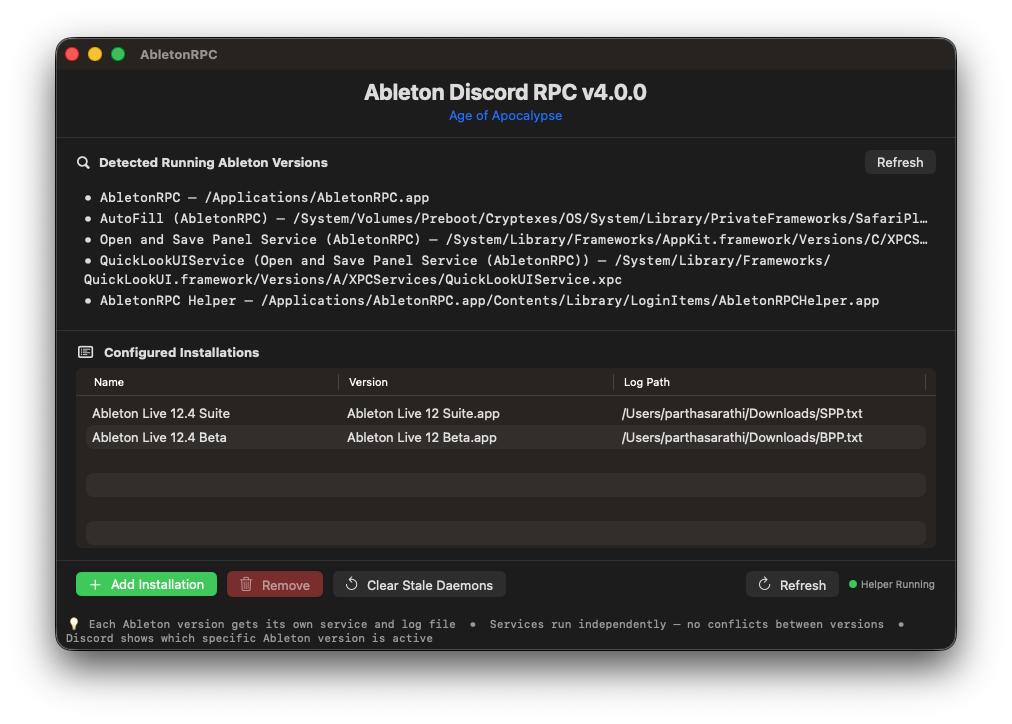
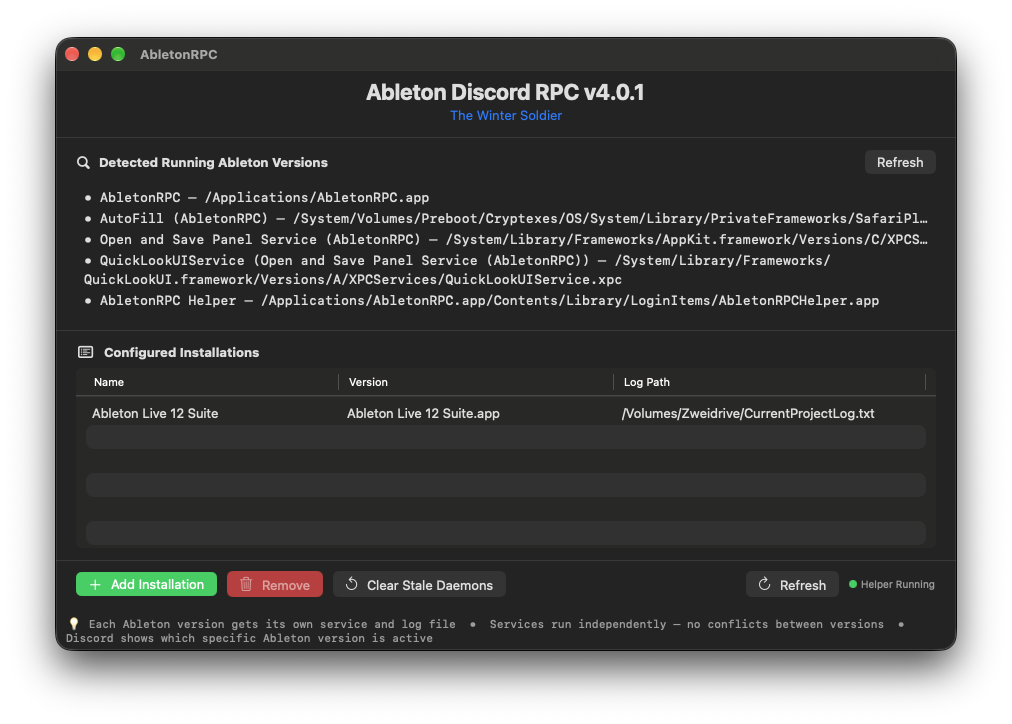
Add files via upload

diff --git a/AbletonRPC/InstallationManager.swift b/AbletonRPC/InstallationManager.swift
@@ -60,8 +60,9 @@ class InstallationManager: ObservableObject {
             return bundled.path
         }
         let candidates = [
-            "/usr/local/bin/python3.14",
             "/usr/local/bin/python3",
+            "/opt/homebrew/bin/python3.13",
+            "/usr/local/bin/python3.13",
             "/usr/bin/python3",
         ]
         return candidates.first { FileManager.default.isExecutableFile(atPath: $0) }
@@ -258,6 +259,7 @@ class InstallationManager: ObservableObject {
         env["HOME"]   = NSHomeDirectory()
         env["TMPDIR"] = NSTemporaryDirectory()
         env["PATH"]   = "/usr/local/bin:/usr/bin:/bin:/usr/sbin:/sbin"
+        env["PYTHONDONTWRITEBYTECODE"] = "1"
         return env
     }
 }

diff --git a/AbletonRPCHelper/HelperApp.swift b/AbletonRPCHelper/HelperApp.swift
@@ -166,8 +166,9 @@ class DaemonSupervisor {
             return bundled
         }
         let candidates = [
-            "/usr/local/bin/python3.14",
             "/usr/local/bin/python3",
+            "/opt/homebrew/bin/python3.13",
+            "/usr/local/bin/python3.13",
             "/usr/bin/python3",
         ]
         return candidates.first {
@@ -180,6 +181,7 @@ class DaemonSupervisor {
         env["HOME"]   = NSHomeDirectory()
         env["TMPDIR"] = NSTemporaryDirectory()
         env["PATH"]   = "/usr/local/bin:/usr/bin:/bin:/usr/sbin:/sbin"
+        env["PYTHONDONTWRITEBYTECODE"] = "1"
         return env
     }
 }

diff --git a/AbletonRPC/ContentView.swift b/AbletonRPC/ContentView.swift
@@ -33,9 +33,9 @@ struct ContentView: View {
 
     private var header: some View {
         VStack(spacing: 2) {
-            Text("Ableton Discord RPC v4.0.0")
+            Text("Ableton Discord RPC v4.0.1")
                 .font(.system(size: 22, weight: .bold))
-            Text("Age of Apocalypse")
+            Text("The Winter Soldier")
                 .font(.system(size: 13))
                 .foregroundColor(.accentColor)
         }

diff --git a/Resources/ableton_rpc.py b/Resources/ableton_rpc.py
@@ -100,12 +100,17 @@ class BroadPresence(Presence):
 # ---------------------------------------------------------------------------
 
 class AbletonInstallation:
-    def __init__(self, name, ableton_path, log_path, client_id=None):
+    def __init__(self, name, ableton_path, log_path, client_id=None,
+                 install_hash=None):
         self.name        = name
         self.ableton_path = ableton_path
         self.log_path    = log_path
         self.client_id   = client_id or DEFAULT_CLIENT_ID
-        self.install_hash = hashlib.md5(ableton_path.encode()).hexdigest()[:8]
+        # Keep the persisted identity stable if an application is moved to a
+        # different disk. Older releases derived this on every load, which
+        # made the helper unable to find an installation after path repair.
+        self.install_hash = (install_hash or
+                             hashlib.md5(ableton_path.encode()).hexdigest()[:8])
 
     @classmethod
     def from_dict(cls, data):
@@ -114,6 +119,7 @@ class AbletonInstallation:
             data["ableton_path"],
             data["log_path"],
             data.get("client_id", DEFAULT_CLIENT_ID),
+            data.get("install_hash"),
         )
 
 
@@ -839,7 +845,9 @@ class AbletonRPCApp:
                     exe  = proc.info.get("exe") or ""
                     if (name == "Live" or "Ableton" in name) and ".app/Contents/MacOS" in exe:
                         app_path = exe.split(".app/Contents/MacOS")[0] + ".app"
-                        if app_path == self.installation.ableton_path:
+                        configured = os.path.realpath(self.installation.ableton_path)
+                        running = os.path.realpath(app_path)
+                        if running == configured:
                             return True
                 except (psutil.NoSuchProcess, psutil.AccessDenied):
                     pass
